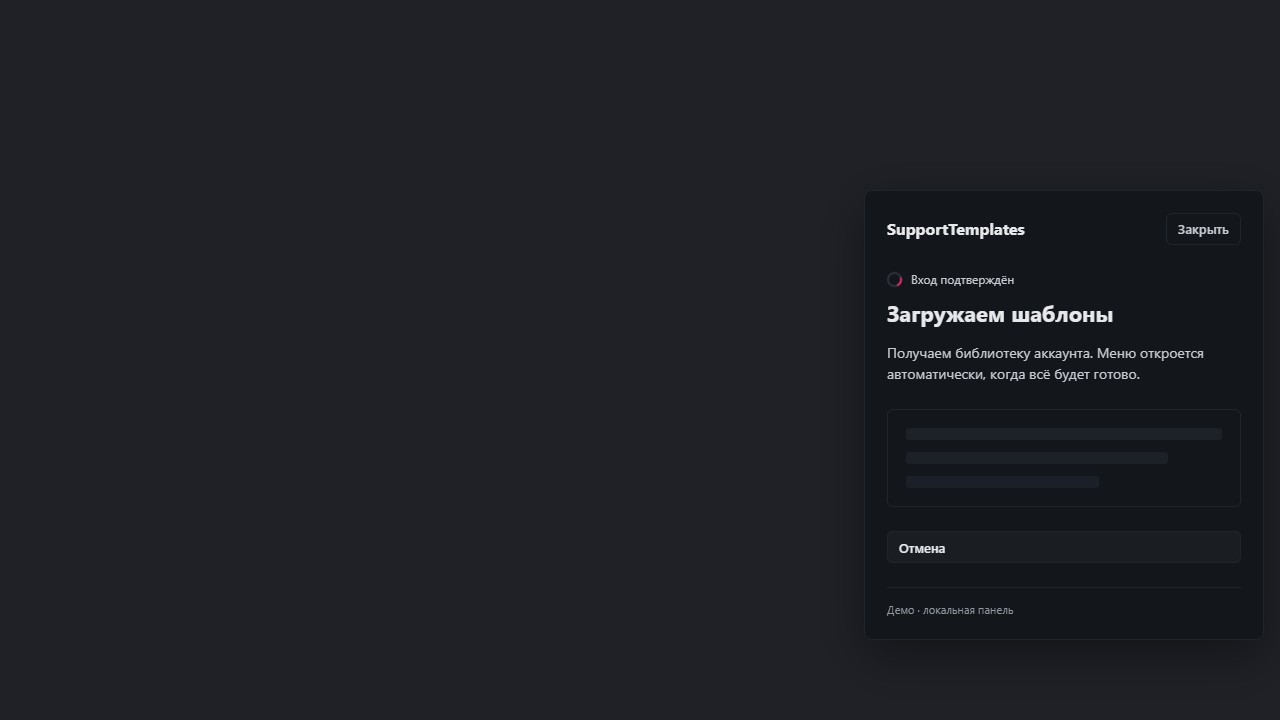
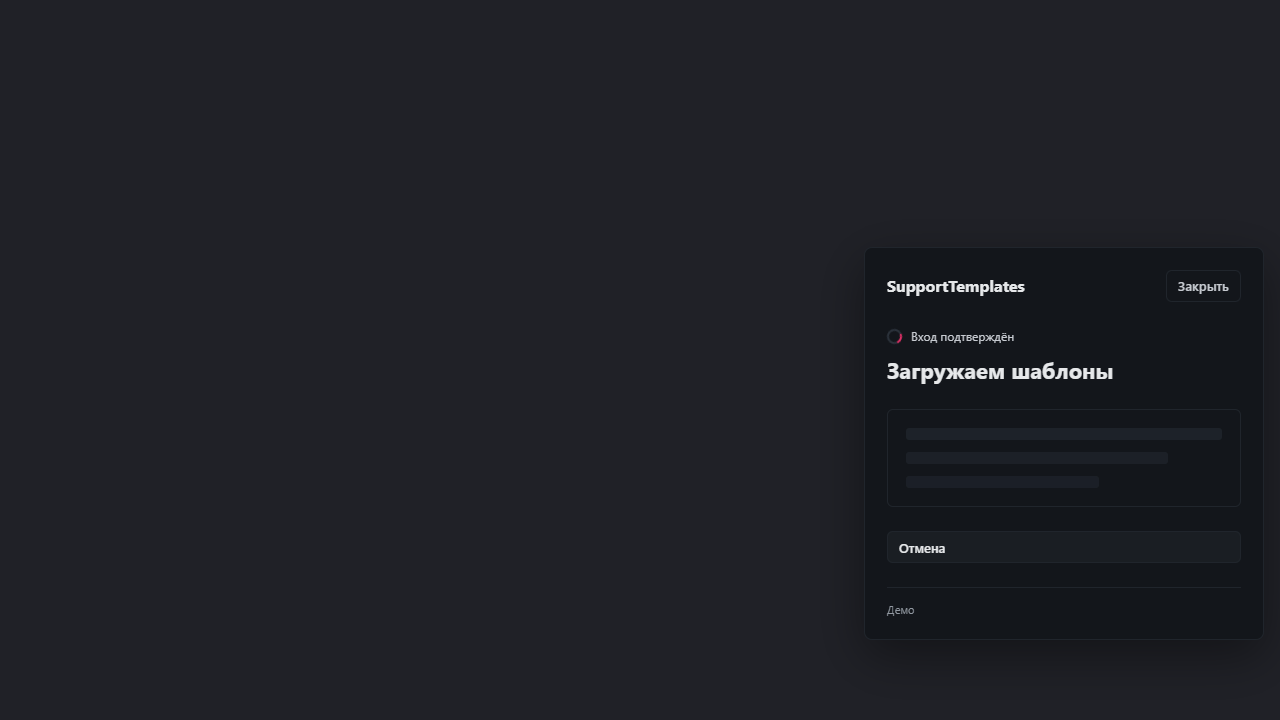
ui: open compact demo library and simplify login copy

diff --git a/src/vencord/ui/LoginWindow.tsx b/src/vencord/ui/LoginWindow.tsx
@@ -39,17 +39,16 @@ export function LoginWindow() {
         {loading ? <section key="loading" className="vc-stx-login-scene vc-stx-load-scene" aria-labelledby="vc-stx-load-heading" aria-busy={d.phase === "loading"}>
             <div className="vc-stx-login-progress" role="status"><span className="vc-stx-login-spinner" aria-hidden="true" />Вход подтверждён</div>
             <h2 id="vc-stx-load-heading">{d.phase === "load-error" ? "Не удалось загрузить шаблоны" : "Загружаем шаблоны"}</h2>
-            <p className="vc-stx-login-copy">Получаем библиотеку аккаунта. Меню откроется автоматически, когда всё будет готово.</p>
-            {d.phase === "load-error" ? <p role="alert">Проверяем связь и повторяем загрузку. Можно отменить и войти позже.</p> : <div className="vc-stx-load-placeholder" aria-hidden="true"><span /><span /><span /></div>}
+            {d.phase === "load-error" ? <p role="alert">Повторяем загрузку…</p> : <div className="vc-stx-load-placeholder" aria-hidden="true"><span /><span /><span /></div>}
             <div className="vc-stx-login-actions"><button className="vc-stx-btn vc-stx-ghost" onClick={cancelDemoLogin}>Отмена</button></div>
         </section> : waiting ? <section key="waiting" className="vc-stx-login-scene" aria-labelledby="vc-stx-login-heading">
             <div className="vc-stx-login-progress" role="status"><span className="vc-stx-login-spinner" aria-hidden="true" />{d.phase === "offline" ? "Восстанавливаем связь" : d.code ? "Ожидаем подтверждение" : "Открываем панель"}</div>
             <h2 id="vc-stx-login-heading">Подтвердите вход</h2>
-            <p className="vc-stx-login-copy">Нажмите «Разрешить» на панели. После этого здесь появятся ваши шаблоны.</p>
-            {d.code && <div className="vc-stx-login-code"><span>Код подключения</span><strong>{d.code}</strong><small>Сверьте его с кодом на странице панели.</small></div>}
+            <p className="vc-stx-login-copy">Нажмите «Разрешить» на панели.</p>
+            {d.code && <div className="vc-stx-login-code"><span>Код подключения</span><strong>{d.code}</strong></div>}
             {d.error && <p role="alert">{d.error}</p>}
             <div className="vc-stx-login-actions">
-                {d.url && <><a className="vc-stx-btn" href={d.url} target="_blank" rel="noreferrer">Открыть панель повторно</a><small className="vc-stx-login-help">Если вкладка не открылась или вы случайно её закрыли.</small></>}
+                {d.url && <><a className="vc-stx-btn" href={d.url} target="_blank" rel="noreferrer">Открыть панель повторно</a></>}
                 {d.paused && <button className="vc-stx-btn vc-stx-ghost" onClick={pauseDemo}>Восстановить связь</button>}
                 <button className="vc-stx-btn vc-stx-ghost" onClick={cancelDemoLogin}>Отмена</button>
             </div>
@@ -62,6 +61,6 @@ export function LoginWindow() {
             {d.phase === "expired" && <p role="status">Код истёк. Начните вход заново.</p>}
             <div className="vc-stx-login-actions"><button className="vc-stx-btn" onClick={login}>Войти через панель</button></div>
         </section>}
-        <footer className="vc-stx-login-demo"><span>Демо · локальная панель</span>{!waiting && !loading && <button onClick={() => { const editor = windowEditor(); disableDemo(); captureWindowTarget(editor); ui.set({ windowOpen: true }); }}>К локальной библиотеке</button>}</footer>
+        <footer className="vc-stx-login-demo"><span>Демо</span>{!waiting && !loading && <button onClick={() => { const editor = windowEditor(); disableDemo(); captureWindowTarget(editor); ui.set({ windowOpen: true }); }}>К локальной библиотеке</button>}</footer>
     </div>;
 }

diff --git a/src/vencord/ui/demo.ts b/src/vencord/ui/demo.ts
@@ -61,7 +61,7 @@ export async function connectDemo(fromMenu = false) {
         if (fromMenu) window.open(result.url, "_blank", "noopener,noreferrer");
         void poll(ownEpoch);
     } catch {
-        if (epoch === ownEpoch) demo.set({ phase: "idle", error: "Нет связи с локальным демосервером. Запустите scripts/demo-panel.py и повторите." });
+        if (epoch === ownEpoch) demo.set({ phase: "idle", error: "Нет связи с панелью. Попробуйте снова." });
     }
 }
 async function poll(ownEpoch: number) {
@@ -84,8 +84,9 @@ async function poll(ownEpoch: number) {
         if (result.phase === "ready") {
             if (result.revision !== demo.get().revision) {
                 const changed = demo.get().revision > 0;
+                if (!changed) library!.setPreviewOpen(false);
                 invalidate(!changed && ui.get().windowOpen); library!.replaceDemoCatalog(result.raw);
-                if (changed) toast("ДЕМО: FAQ обновлён. Повторите выбор шаблона.", "success");
+                if (changed) toast("Шаблоны обновлены. Выберите шаблон снова.", "success");
             }
             demoAccess.set({ ready: true });
             demo.set({ phase: "ready", revision: result.revision, error: "" });
@@ -97,7 +98,7 @@ async function poll(ownEpoch: number) {
     } catch {
         if (epoch !== ownEpoch) return;
         if (demoAccess.get().ready) invalidate();
-        demoAccess.set({ ready: false }); demo.set({ phase: demo.get().phase === "loading" || demo.get().phase === "load-error" ? "load-error" : "offline", error: "Демосервер недоступен. Вставка тестовых шаблонов приостановлена; повторяем подключение." });
+        demoAccess.set({ ready: false }); demo.set({ phase: demo.get().phase === "loading" || demo.get().phase === "load-error" ? "load-error" : "offline", error: "Нет связи с панелью. Переподключаемся…" });
     }
     if (epoch === ownEpoch) timer = setTimeout(() => void poll(ownEpoch), 2000);
 }

diff --git a/src/vencord/styles.css b/src/vencord/styles.css
@@ -308,7 +308,7 @@
 .vc-stx-token-buttons button:disabled { opacity: .45; cursor: default; }
 .vc-stx-token-builder { margin-top: 10px; padding: 12px; border: 1px solid var(--stx-bd); border-radius: 6px; display: grid; gap: 10px; }
 .vc-stx-personal-form .vc-stx-token-builder textarea { height: 96px; min-height: 80px; }
-.vc-stx-demo-banner { position: fixed; top: 36px; left: 50%; transform: translateX(-50%); max-width: calc(100vw - 24px); display: flex; align-items: center; gap: 12px; flex-wrap: wrap; padding: 8px 14px; border: 1px solid #c51751; border-radius: 6px; background: #22151d; color: #eee; z-index: 3; pointer-events: auto; font-size: 12px; }
+.vc-stx-demo-banner { position: fixed; top: 36px; left: 50%; transform: translateX(-50%); max-width: calc(100vw - 24px); display: flex; align-items: center; padding: 3px 8px; border: 1px solid var(--stx-bd); border-radius: 4px; background: var(--stx-card); color: var(--stx-mu); z-index: 3; pointer-events: auto; font: inherit; font-size: 11px; cursor: pointer; }
 .vc-stx-login { position: fixed; width: min(400px, calc(100vw - 16px)); max-height: calc(100vh - 100px); overflow: auto; padding: 22px; border: 1px solid var(--stx-bd); border-radius: 8px; background: var(--stx-card); color: var(--stx-tx); pointer-events: auto; box-shadow: 0 16px 48px #0006; }
 .vc-stx-login h2 { font-size: 22px; line-height: 1.3; margin: 24px 0 10px; }
 .vc-stx-login p { line-height: 1.55; }

diff --git a/src/vencord/ui/DemoBanner.tsx b/src/vencord/ui/DemoBanner.tsx
@@ -10,7 +10,5 @@ import { ui } from "./uiState";
 export function DemoBanner() {
     const d = demo.use();
     if (!d.enabled) return null;
-    return <div className="vc-stx-demo-banner" role="status">ДЕМО · {d.phase === "ready" ? `тестовые шаблоны v${d.revision}` : "подключение не готово — тестовая вставка недоступна"}
-        <button className="vc-stx-btn vc-stx-ghost" onClick={() => ui.set({ management: true })}>Настройки деморежима</button>
-    </div>;
+    return <button className="vc-stx-demo-banner" title="Настройки деморежима" onClick={() => ui.set({ management: true })}>Демо</button>;
 }

diff --git a/scripts/demo-panel.py b/scripts/demo-panel.py
@@ -40,7 +40,7 @@ class Handler(BaseHTTPRequestHandler):
         with lock:
             if self.path == '/requests' and self.command == 'POST':
                 sid, device, panel = (secrets.token_urlsafe(24) for _ in range(3))
-                sessions[sid] = dict(device=device, panel=panel, phase='pending', expires=time.time()+600, revision=1, text='Тестовый FAQ. Укажите {{ник}} и проверьте подключение.', code=secrets.token_hex(3).upper())
+                sessions[sid] = dict(device=device, panel=panel, phase='pending', expires=time.time()+600, revision=1, text='Здравствуйте! Спасибо за обращение.\n\nОпишите, пожалуйста, что произошло и какие действия привели к ошибке. Приложите скриншот или короткое видео — это поможет нам разобраться.', code=secrets.token_hex(3).upper())
                 self.reply(200, dict(id=sid, device=device, url=f'http://127.0.0.1:47833/#{sid}.{panel}', code=sessions[sid]['code'])); return
             parts = self.path.strip('/').split('/')
             if len(parts) != 3 or parts[0] != 'sessions' or parts[1] not in sessions: self.reply(404, {}); return
@@ -50,7 +50,7 @@ class Handler(BaseHTTPRequestHandler):
             if not role: self.reply(403, {}); return
             if session['phase']=='pending' and time.time()>session['expires']: session['phase']='expired'
             if action == 'state' and self.command=='GET':
-                raw = '## Majestic RP\n### ДЕМО: проверка подключения\n'+session['text']+'\n\n## Россия Онлайн\n### ДЕМО: проверка подключения\n'+session['text']
+                raw = '## Majestic RP\n### Уточнение проблемы\n'+session['text']+'\n\n## Россия Онлайн\n### Уточнение проблемы\n'+session['text']
                 self.reply(200, dict(phase=session['phase'], revision=session['revision'], code=session['code'], text=session['text'] if role=='panel' else '', raw=raw if session['phase']=='ready' else '')); return
             if self.command!='POST': self.reply(405, {}); return
             if action in ('approve','deny') and role=='panel' and session['phase']=='pending': session['phase']='ready' if action=='approve' else 'denied'

diff --git a/docs/audits/2026-10-15-plugin-demo.md b/docs/audits/2026-10-15-plugin-demo.md
@@ -40,3 +40,10 @@
 После согласия на панели показывается отдельная сцена «Вход подтверждён» / «Загружаем шаблоны»: индикатор, три пульсирующие заготовки строк и отмена. Меню открывается только после получения и применения снимка. Демо отдельно перечитывает каталог после согласия и держит сцену минимум 700 мс для читаемости; это демонстрационная задержка, не требование реального API. При ошибке остаётся сцена с автоматической повторной попыткой. Анимации учитывают prefers-reduced-motion.
 
 Проверены реальные компоненты на браузерном стенде с loopback API: подтверждение, медленная загрузка, автоматический переход к библиотеке; отмена во время загрузки исключает применение позднего ответа. Ошибок JavaScript нет. ESLint изменённых TSX/TS, полный typecheck Vencord и сборка прошли. Скриншот: docs/screens/login-loading.png. В живом Discord этот проход ещё не проверен.
+
+## Компактное меню после входа
+
+При первой загрузке каждой попытки входа previewOpen сбрасывается только в изолированном демохранилище. Меню открывается списком, полный текст доступен по Shift; обновления каталога не сбрасывают последующий выбор пользователя. Технический FAQ заменён примером «Уточнение проблемы». Пояснения входа/загрузки сокращены, большая служебная плашка заменена маленькой кнопкой «Демо» с доступом к настройкам.
+
+Браузерный стенд подтвердил успешный вход, новое название и previewOpen=false после загрузки. Локальный демосервер перезапущен для нового примера (старые демосессии сброшены). Живая проверка Discord остаётся ручной.
+Проверки после упрощения: 123 теста, ESLint изменённых файлов, полный typecheck Vencord и сборка прошли.
